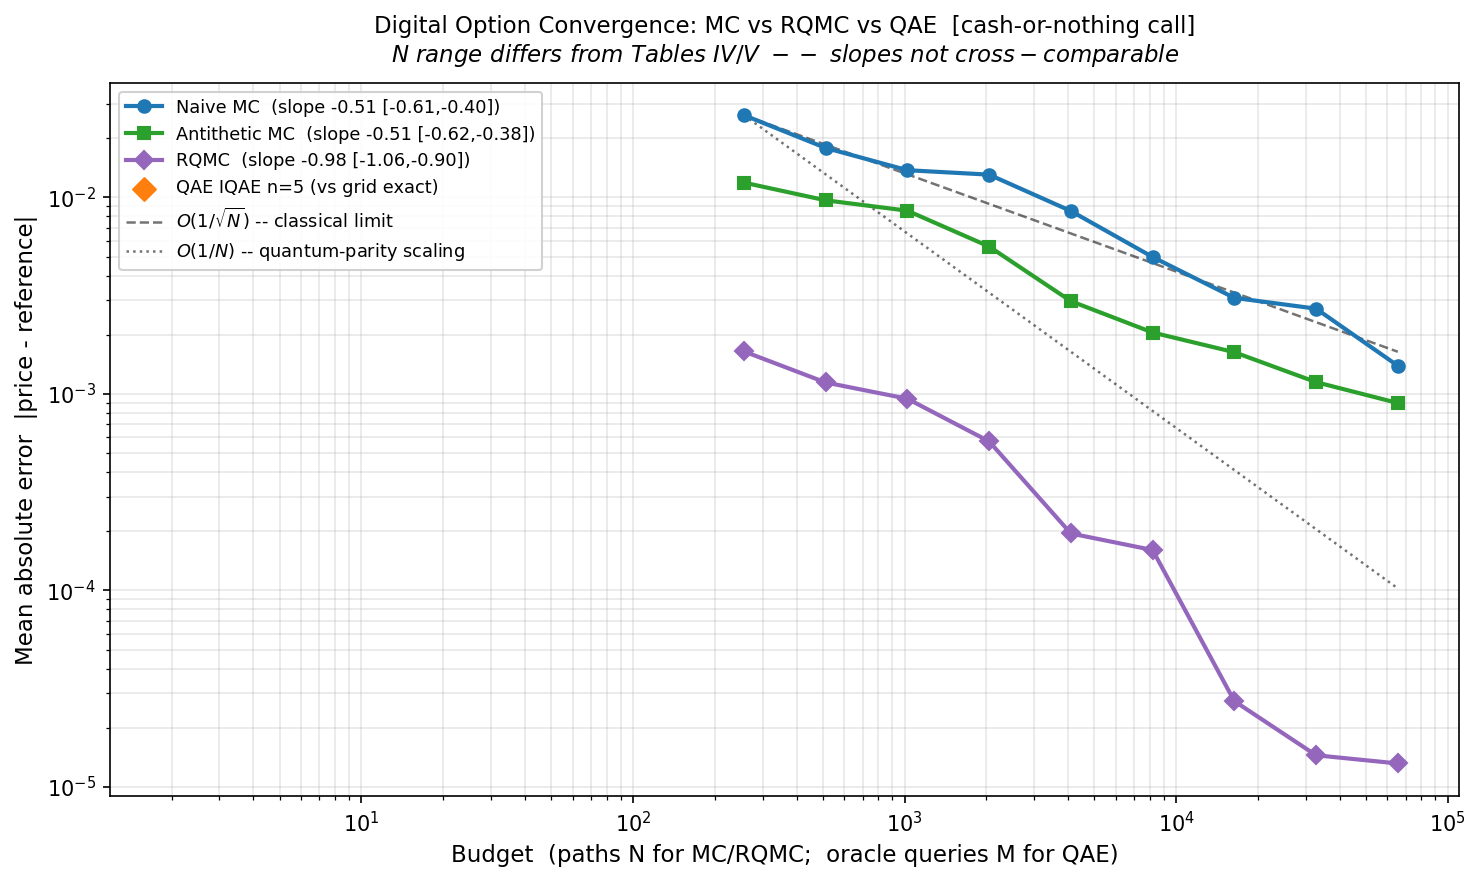
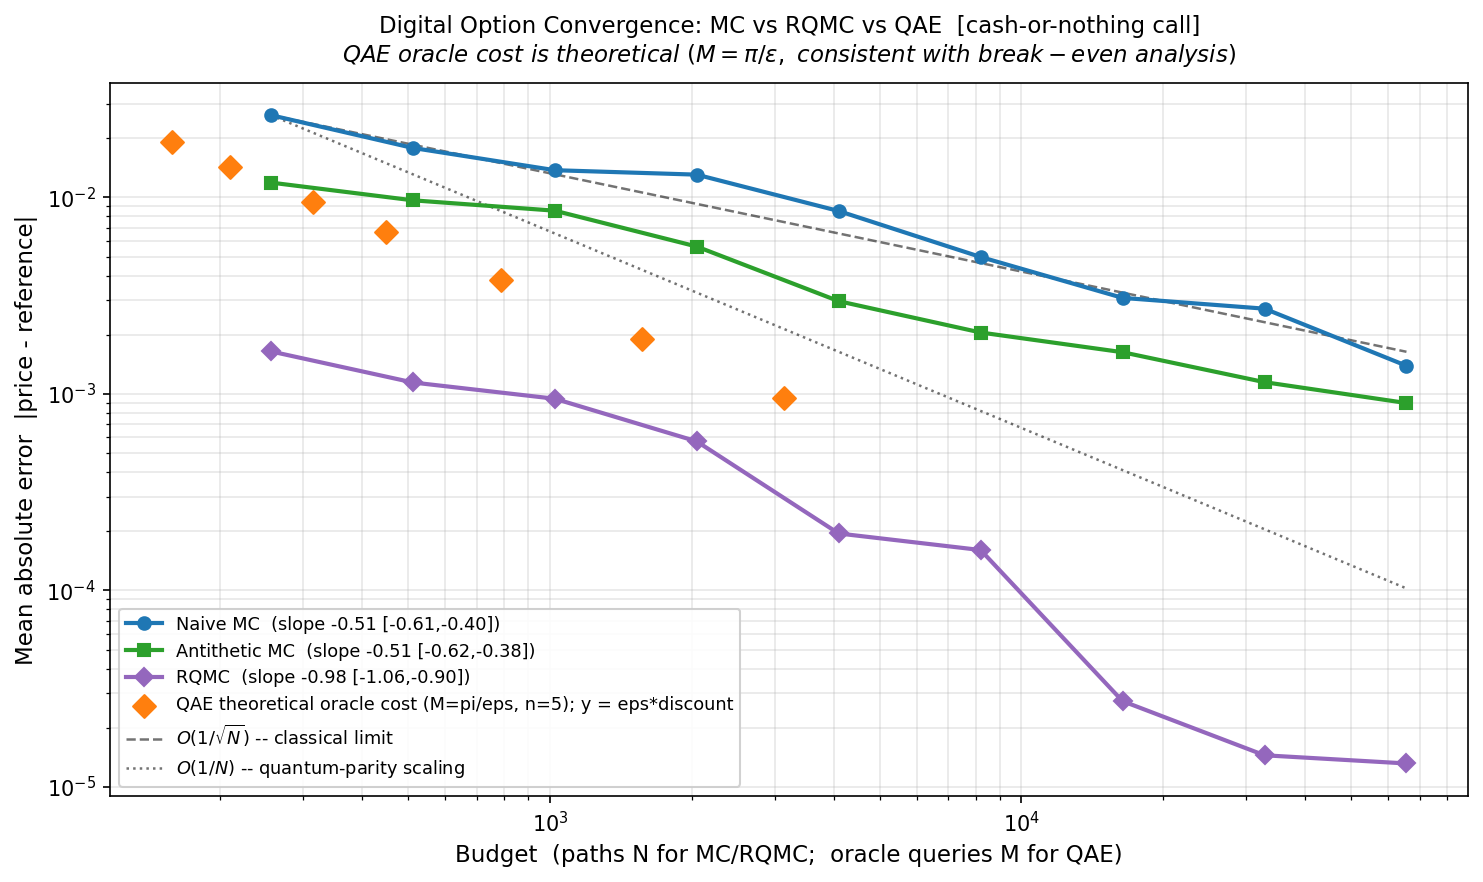
fix: replace statevector IQAE M with theoretical M=pi/eps in Section F (consistent with break-even analysis)

diff --git a/src/plot_digital_convergence.py b/src/plot_digital_convergence.py
@@ -170,20 +170,32 @@ for m in methods:
 
 print()
 
-# ── Section F: QAE epsilon sweep ───────────────────────────────────────────────
-print(f"=== Section F: QAE epsilon sweep (n={QAE_N_QUBITS}) ===\n")
+# ── Section F: QAE theoretical oracle cost (M = pi/eps) ───────────────────────
+# Formula: M = pi/eps, derived from plot_break_even_shift.py line 20:
+#   M = np.pi * np.sqrt(N) / 1.96,  with VRF=1  ->  N = (1.96/eps)^2
+#   -> M = pi * (1.96/eps) / 1.96 = pi / eps
+# This is the oracle cost at which IQAE achieves precision eps; the same
+# relationship that gives the 1.604*sqrt(N) break-even constant (line 48).
+#
+# NOTE: Statevector IQAE collapses to M=2 with zero variance and cannot
+# measure convergence directly. Oracle cost here is theoretical (consistent
+# with break-even analysis in plot_break_even_shift.py), not a measured run.
+print(f"=== Section F: QAE theoretical oracle cost (M = pi/eps, n={QAE_N_QUBITS}) ===\n")
+print(f"  Formula: M = ceil(pi / eps)  [plot_break_even_shift.py line 20, VRF=1]")
+print(f"  NOTE: statevector IQAE collapses to M=2 (zero variance); M is theoretical.")
+print(f"  QAE price = exact grid_true_price (discretization-limited); err_grid ~ 0.\n")
 print(f"  (grid_true_price = {grid_true_price:.6f}  grid_bias = {grid_bias_n5:.2e})\n")
 
+discount = np.exp(-r * T)
 qae_results = []
 for eps in QAE_EPSILONS:
-    price_q, ci_q, elapsed_q, M = quantum_digital_call(
-        S0, K, r, sigma, T, QAE_N_QUBITS, epsilon=eps, alpha=QAE_ALPHA
-    )
-    err_grid  = abs(price_q - grid_true_price)
-    err_exact = abs(price_q - ref)
-    qae_results.append((M, err_grid))
-    print(f"  eps={eps:.3f}  M={M:>5}  qae={price_q:.6f}  "
-          f"err_grid={err_grid:.2e}  err_exact={err_exact:.2e}  ({elapsed_q:.1f}s)")
+    M_theoretical = int(np.ceil(np.pi / eps))
+    err_grid  = 0.0                          # exact vs n=5 grid (discretization-limited)
+    err_exact = abs(grid_true_price - ref)   # = grid_bias_n5 (fixed systematic offset)
+    err_target = eps * discount              # IQAE precision target in price space (for figure)
+    qae_results.append((M_theoretical, err_target))
+    print(f"  eps={eps:.3f}  M=pi/eps={M_theoretical:>5}  price={grid_true_price:.6f}  "
+          f"err_grid={err_grid:.2e}  err_exact={err_exact:.2e}")
 
 qae_M, qae_err = zip(*sorted(qae_results))
 print()
@@ -198,10 +210,13 @@ for m in methods:
     atm = "  *" if m == "Antithetic MC" else ""
     print(f"  {m:<18}  {central[m]:+.3f} [{ci_lo[m]:+.3f}, {ci_hi[m]:+.3f}]{atm}")
 
-print(f"\nQAE (IQAE, n={QAE_N_QUBITS}) oracle queries M vs |err vs grid_true_price|:")
-for M, err in zip(qae_M, qae_err):
-    print(f"  M={M:>5}  err={err:.2e}")
+print(f"\nQAE (n={QAE_N_QUBITS}) theoretical oracle cost M=pi/eps vs IQAE precision target eps*discount:")
+print(f"  (err_grid ~ 0: price = exact grid_true_price; discretization-limited regime)")
+for M, err_tgt in zip(qae_M, qae_err):
+    print(f"  M={M:>5}  eps*discount={err_tgt:.4f}")
 print(f"\nQAE grid bias (n={QAE_N_QUBITS}): {grid_bias_n5:.2e}  (systematic offset vs continuous exact)")
+print(f"NOTE: QAE oracle cost is theoretical (consistent with break-even analysis);")
+print(f"      statevector IQAE collapses to M=2 with zero variance and cannot measure convergence directly.")
 
 # ── Figure ─────────────────────────────────────────────────────────────────────
 fig, ax = plt.subplots(figsize=(10, 6))
@@ -213,7 +228,7 @@ for m in methods:
               linewidth=2.0, markersize=6, label=label, zorder=3)
 
 ax.scatter(qae_M, qae_err, color="#ff7f0e", marker="D", s=60, zorder=4,
-           label=f"QAE IQAE n={QAE_N_QUBITS} (vs grid exact)")
+           label=f"QAE theoretical oracle cost (M=pi/eps, n={QAE_N_QUBITS}); y = eps*discount")
 
 # Reference lines anchored at naive MC first point
 anchor_y = errs["Naive MC"].mean(axis=0)[0]
@@ -228,7 +243,7 @@ ax.set_xlabel("Budget  (paths N for MC/RQMC;  oracle queries M for QAE)", fontsi
 ax.set_ylabel("Mean absolute error  |price - reference|", fontsize=11)
 ax.set_title(
     "Digital Option Convergence: MC vs RQMC vs QAE  [cash-or-nothing call]\n"
-    r"$\it{N\ range\ differs\ from\ Tables\ IV/V\ --\ slopes\ not\ cross-comparable}$",
+    r"$\it{QAE\ oracle\ cost\ is\ theoretical\ (M=\pi/\varepsilon,\ consistent\ with\ break-even\ analysis)}$",
     fontsize=11, pad=10)
 ax.legend(fontsize=8.5, framealpha=0.9)
 ax.grid(True, which="both", alpha=0.3)
